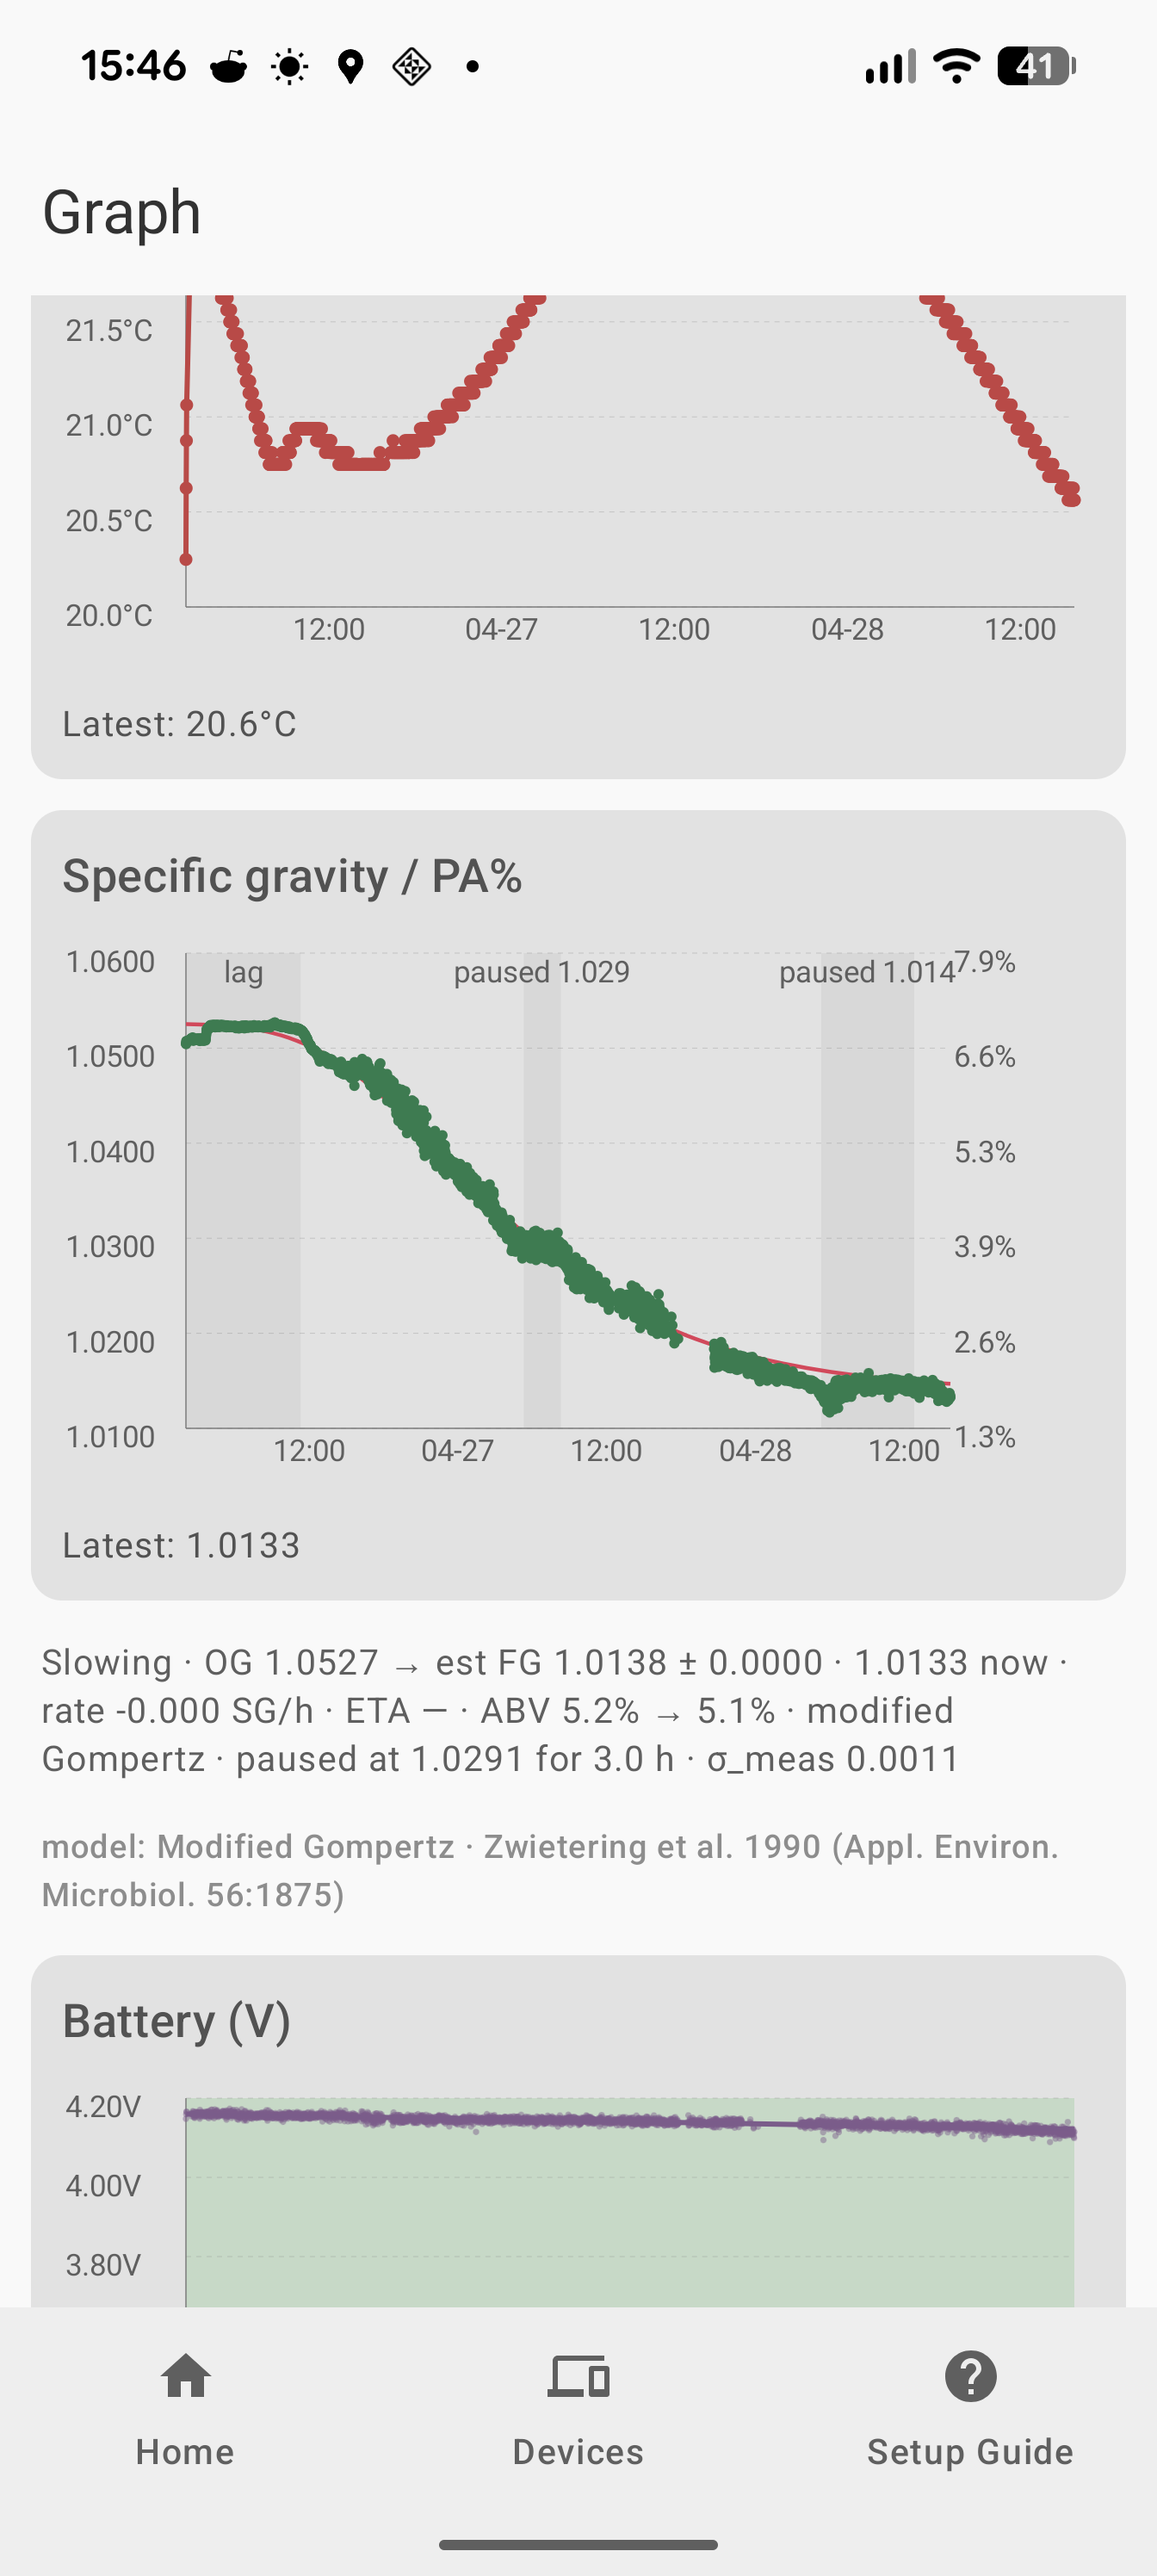
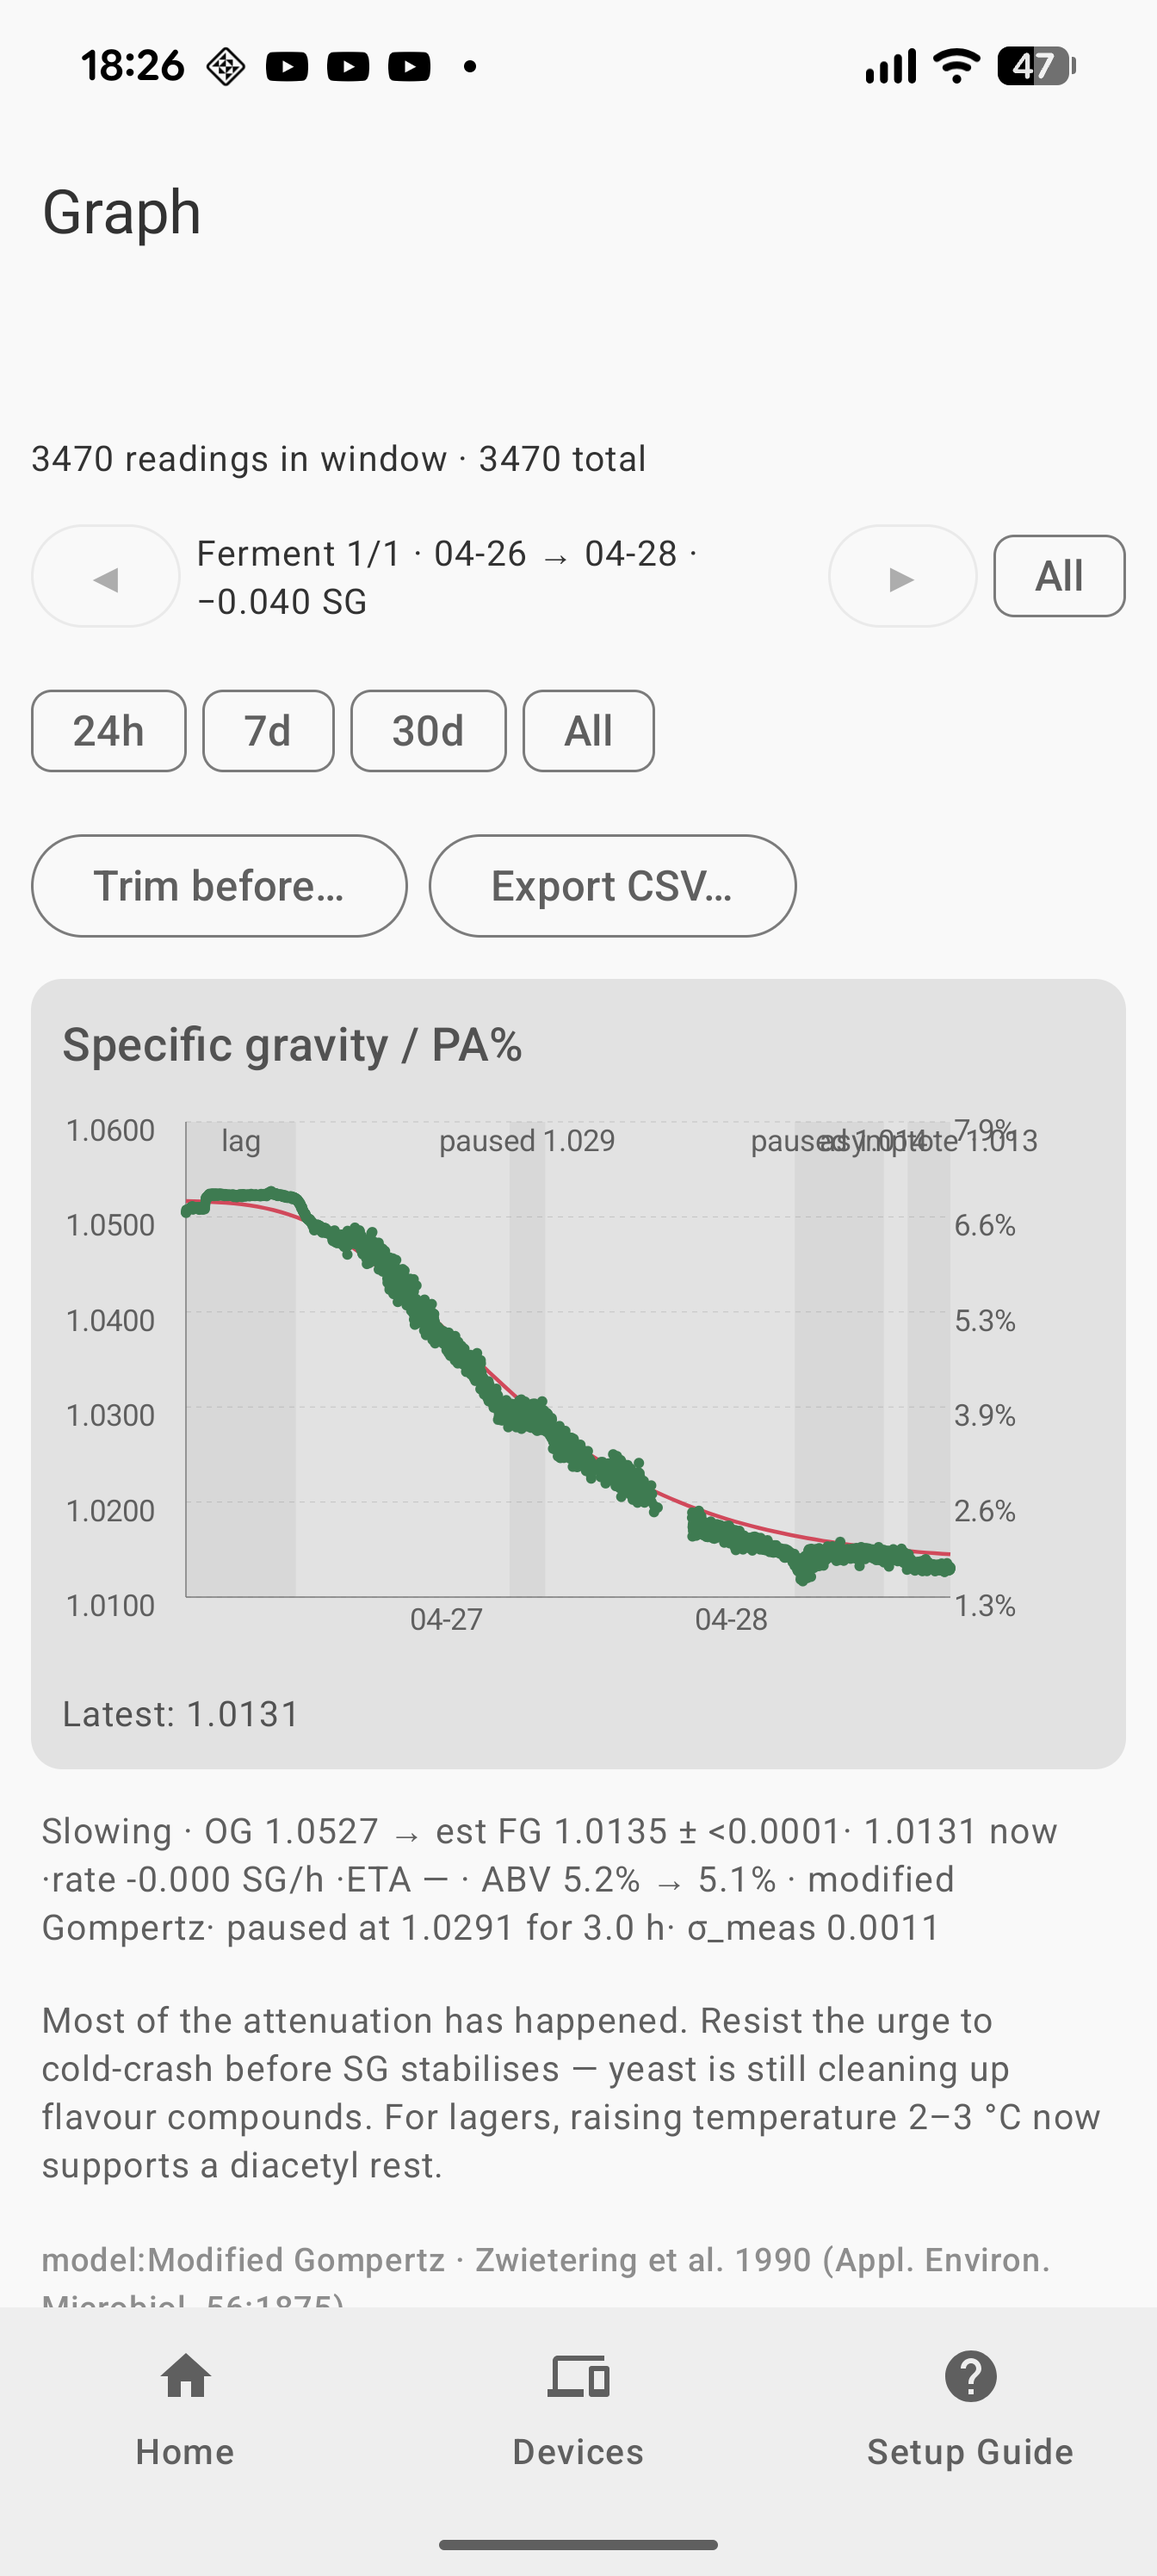
Release v0.5.1: per-stage brewing guidance + SG chart leads the page
The Lag / Active / Slowing / Conditioning / Stuck classifier now drives
a short paragraph of stage-appropriate advice under the SG estimate.
What to watch, what to resist, what to try if the ferment plateaus
high. Reads in the same locale as the rest of the UI (10 languages).

The SG card with model overlay moved to the top of the Graph page,
ahead of tilt and temperature. It's the headline view for an active
ferment, so it should not require scrolling to reach.

Marquee screenshot regenerated to show the new layout.

diff --git a/app/src/main/kotlin/com/ispindle/plotter/ui/screens/GraphScreen.kt b/app/src/main/kotlin/com/ispindle/plotter/ui/screens/GraphScreen.kt
@@ -221,28 +221,8 @@ fun GraphScreen(
             return@Column
         }
 
-        MetricCard(
-            title = stringResource(R.string.graph_section_tilt_angle),
-            series = ChartSeries(
-                label = "angle",
-                color = Color(0xFF2D5F9E),
-                points = scoped.map { it.timestampMs.toDouble() to it.angle },
-                format = { "%.1f°".format(it) }
-            ),
-            xFormatter = xFmt
-        )
-
-        MetricCard(
-            title = stringResource(R.string.graph_section_temperature),
-            series = ChartSeries(
-                label = "temp",
-                color = Color(0xFFB84A47),
-                points = scoped.map { it.timestampMs.toDouble() to it.temperatureC },
-                format = { "%.1f°C".format(it) }
-            ),
-            xFormatter = xFmt
-        )
-
+        // SG with the model overlay leads — it's the headline chart for
+        // brewers actively watching a ferment.
         val sgPoints = scoped.mapNotNull { r ->
             val sg = r.computedGravity ?: r.reportedGravity
             if (sg != null && sg > 0.0) r.timestampMs.toDouble() to sg else null
@@ -269,6 +249,28 @@ fun GraphScreen(
             overlay = sgOverlay
         )
         SgEstimateLine(scoped, sgPoints, calR2)
+
+        MetricCard(
+            title = stringResource(R.string.graph_section_tilt_angle),
+            series = ChartSeries(
+                label = "angle",
+                color = Color(0xFF2D5F9E),
+                points = scoped.map { it.timestampMs.toDouble() to it.angle },
+                format = { "%.1f°".format(it) }
+            ),
+            xFormatter = xFmt
+        )
+
+        MetricCard(
+            title = stringResource(R.string.graph_section_temperature),
+            series = ChartSeries(
+                label = "temp",
+                color = Color(0xFFB84A47),
+                points = scoped.map { it.timestampMs.toDouble() to it.temperatureC },
+                format = { "%.1f°C".format(it) }
+            ),
+            xFormatter = xFmt
+        )
 
         val rawBatteryPoints = scoped.map { it.timestampMs.toDouble() to it.batteryV }
         // The cell really does sit at each ADC-quantised voltage step
@@ -488,9 +490,28 @@ private fun SgEstimateLine(
         }
     }
 
+    // Stage-specific brewing guidance — what the brewer should be
+    // thinking about right now given the current phase.
+    val guidanceRes: Int? = when (state) {
+        is Fermentation.State.Insufficient -> R.string.graph_guidance_insufficient
+        is Fermentation.State.Lag -> R.string.graph_guidance_lag
+        is Fermentation.State.Active -> R.string.graph_guidance_active
+        is Fermentation.State.Slowing -> R.string.graph_guidance_slowing
+        is Fermentation.State.Conditioning -> R.string.graph_guidance_conditioning
+        is Fermentation.State.Stuck -> R.string.graph_guidance_stuck
+    }
+    if (guidanceRes != null) {
+        Text(
+            text = stringResource(guidanceRes),
+            style = MaterialTheme.typography.bodySmall,
+            color = MaterialTheme.colorScheme.onSurfaceVariant,
+            modifier = Modifier.padding(horizontal = 4.dp, vertical = 4.dp)
+        )
+    }
+
     // Academic reference for the parametric model used in OG/FG/ETA
-    // inference. Shown as a small caption under the prediction text so
-    // anyone reading the chart can find the model in the literature.
+    // inference. Shown as a small caption under the guidance so anyone
+    // reading the chart can find the model in the literature.
     if (state is Fermentation.State.Active ||
         state is Fermentation.State.Slowing ||
         state is Fermentation.State.Conditioning
